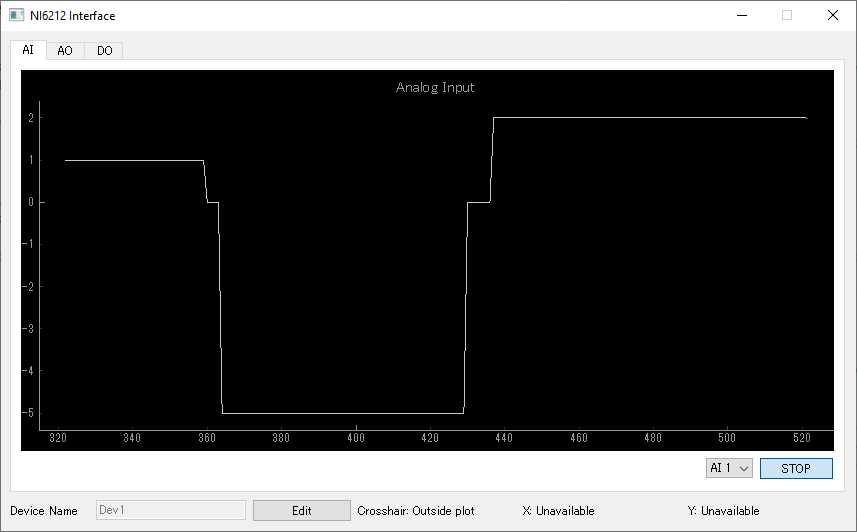
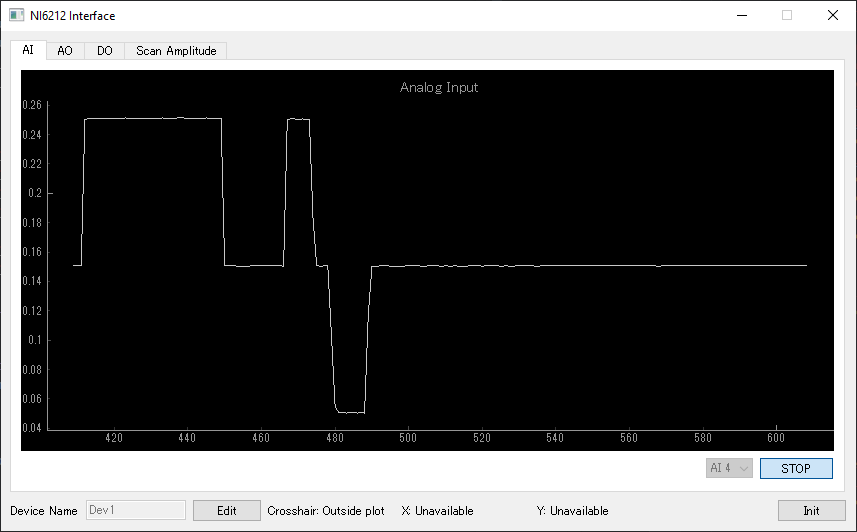
update: Added ScanAmplitude entry to README.md

diff --git a/src/ScanAmplitude.py b/src/ScanAmplitude.py
@@ -88,7 +88,7 @@ class ScanAmplitude(TabCategory):
         hbox5.addWidget(self.step)
         hbox5.addWidget(self.createLabel('V'))
         hbox6 = QHBoxLayout()
-        hbox6.addWidget(self.createLabel('TTL dt'))
+        hbox6.addWidget(self.createLabel('dt'))
         hbox6.addWidget(self.dt)
         hbox6.addWidget(self.createLabel('ms'))
         hbox7 = QHBoxLayout()

diff --git a/README.md b/README.md
@@ -31,12 +31,12 @@ $ python App.py
 
 ## Description
 
-There are three tabs on the application: "Analog Input," "Analog Output," and "Digital Output".
+There are three tabs on the application: "Analog Input", "Analog Output", "Digital Output", and 'Scan Amplitude".
 
 ![image](https://github.com/OIST-EQuIP/NI6212_interface/blob/main/img/AI.PNG)
 
 "Analog Input" measures the voltage on the channel selected in the drop-down list.
-To start measurement, press the "START" button. To exit, press the button labeled "STOP".
+To start measurement, press the "START" button. To exit, press the button labeled "STOP". "Analog Input" can detect -5.4 to 5.4v.
 
 ![image](https://github.com/OIST-EQuIP/NI6212_interface/blob/main/img/AO.PNG)
 
@@ -48,8 +48,23 @@ Specifiable Output values are from -10 to 10.
 In "Digital Output", voltage flows to the channel selected by the check box.
 Press the "START" button to start measurement, and press the "ON" button to output the signal. Pressing the "OFF" button stops signal output.
 
+![image](https://github.com/OIST-EQuIP/NI6212_interface/blob/main/img/SA.PNG)
+
+"Scan Amplitude" sets the threshold value and performs the scanning operation.
+The analog output is gradually increased until the analog input reaches the threshold value.
+When the analog input reaches the threshold value, the analog output stops increasing or decreasing and a digital signal is output.
+
+Enter a threshold value in the "Threshold" field.
+"vmax" and "vmin" are set to the maximum and minimum values that the USB-6212 can detect on the analog input.
+"vamp" allows you to set the amplitude height.
+"step size" allows you to set the amplitude increase/decrease value.
+With "dt", you can set the output wait time for the digital signal to be output after the threshold value is detected.
+"AO Channel", "AI Channel", and "DI Port/Channel" allow you to select the port and channel to be used.
+
 The device name can be edited by pressing the "Edit" button.
 If the device name is different from the default value, please change it here.
+
+If the behavior is not correct, you can initialize it with the "Init" button. It is recommended to stop all operations before pressing the "Init" button.
 
 ## Reference
 [PyQt5 document](https://pythonspot.com/pyqt5/)
